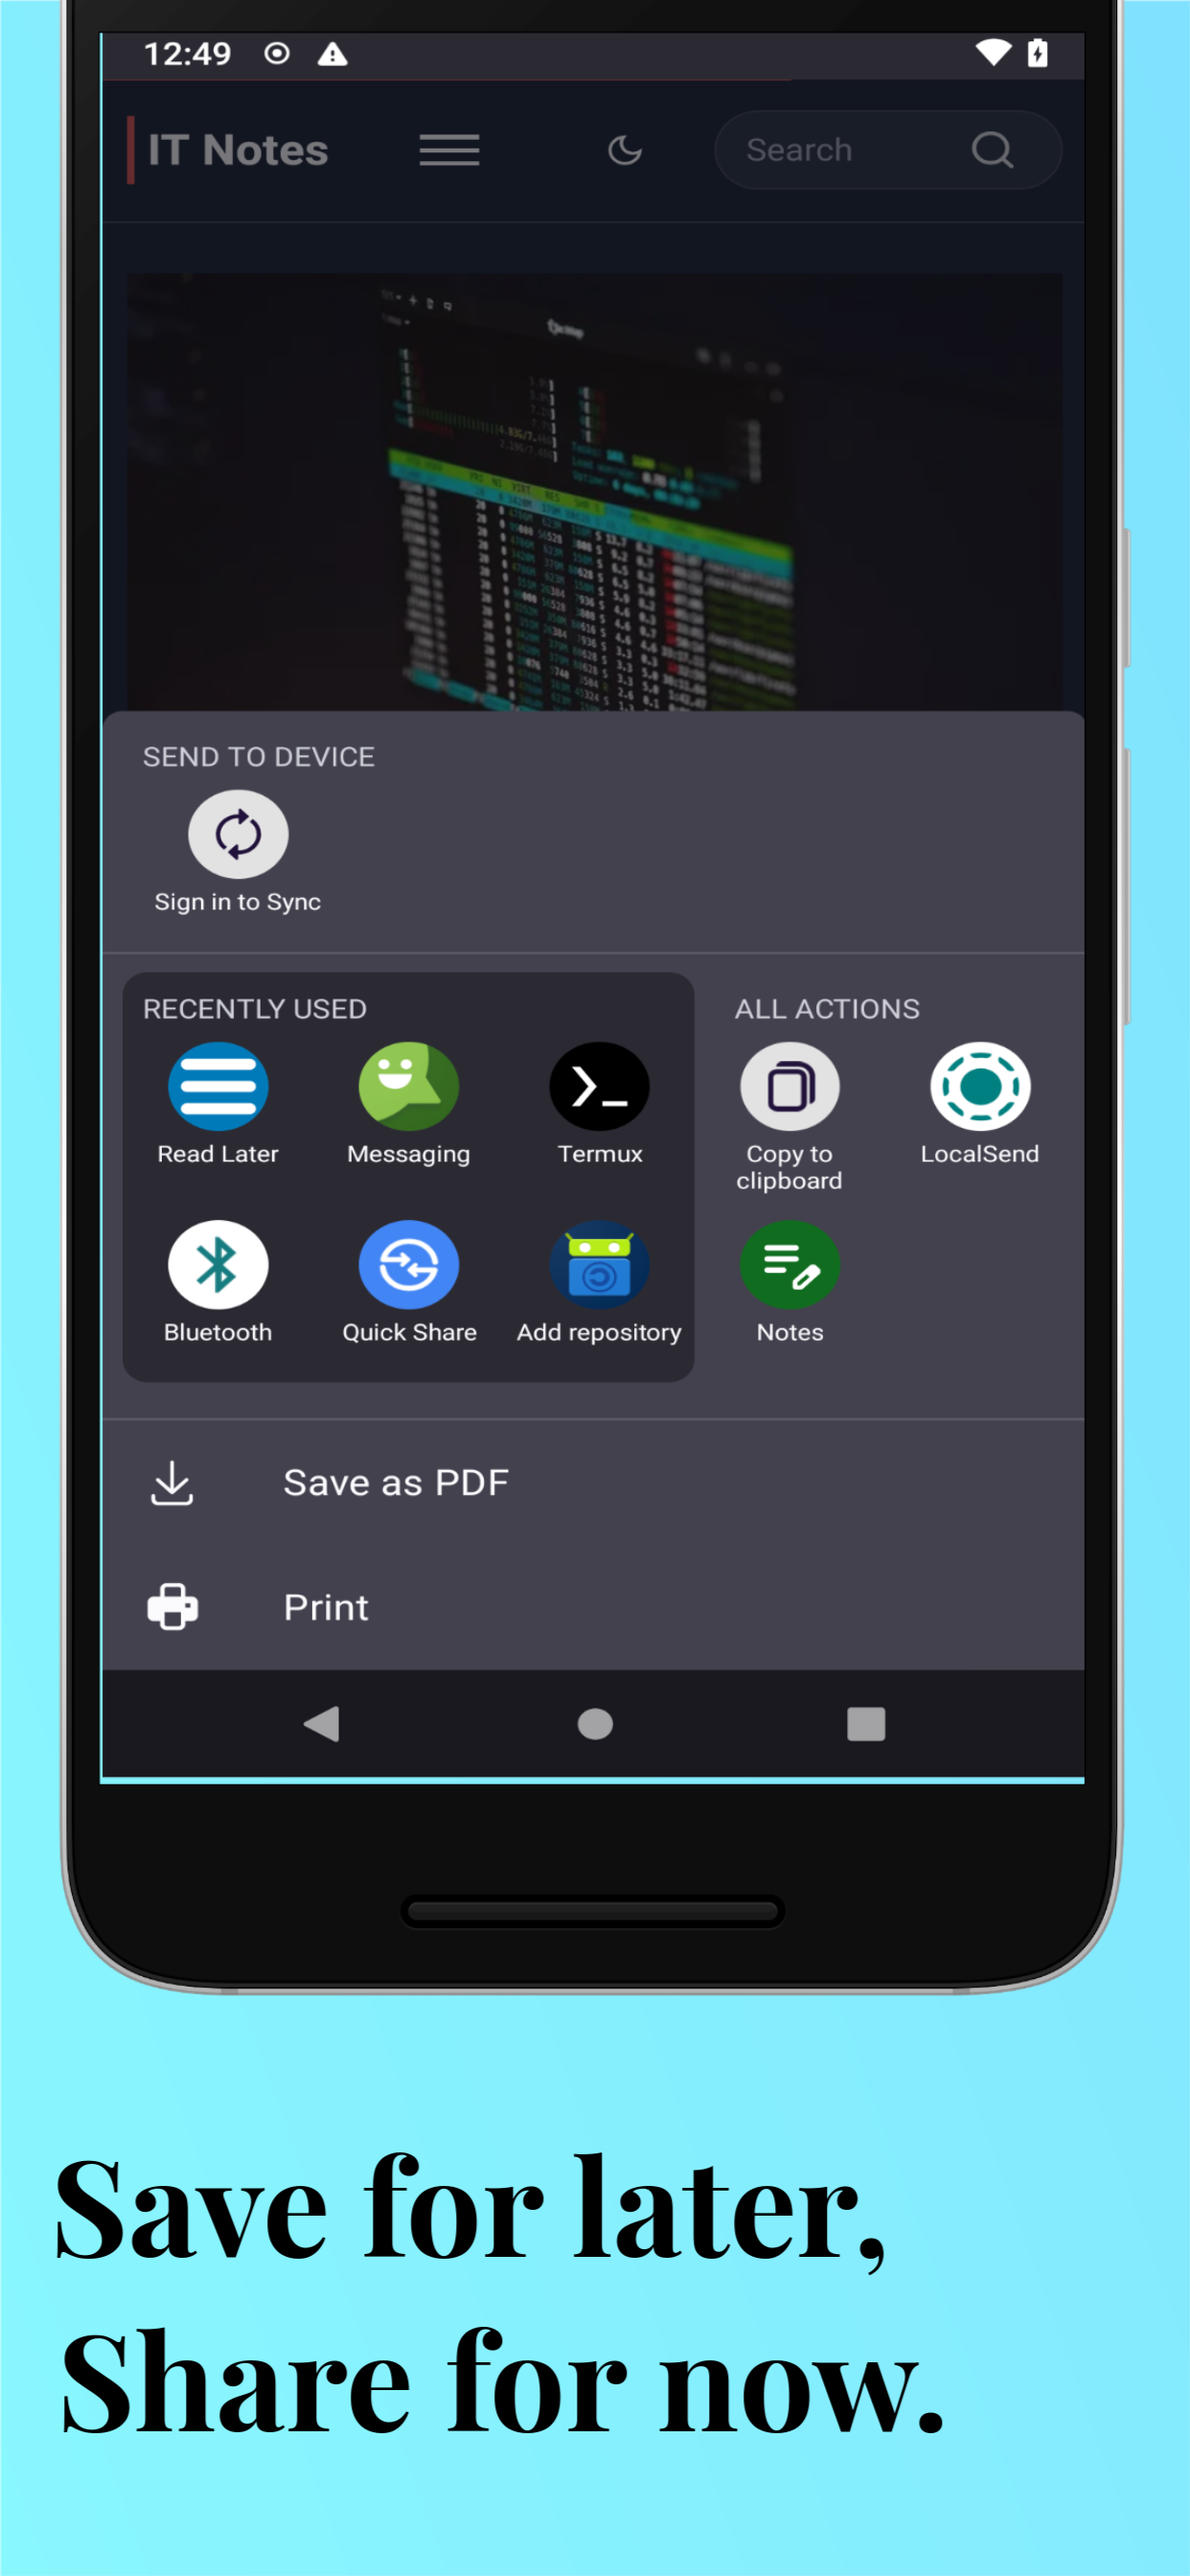
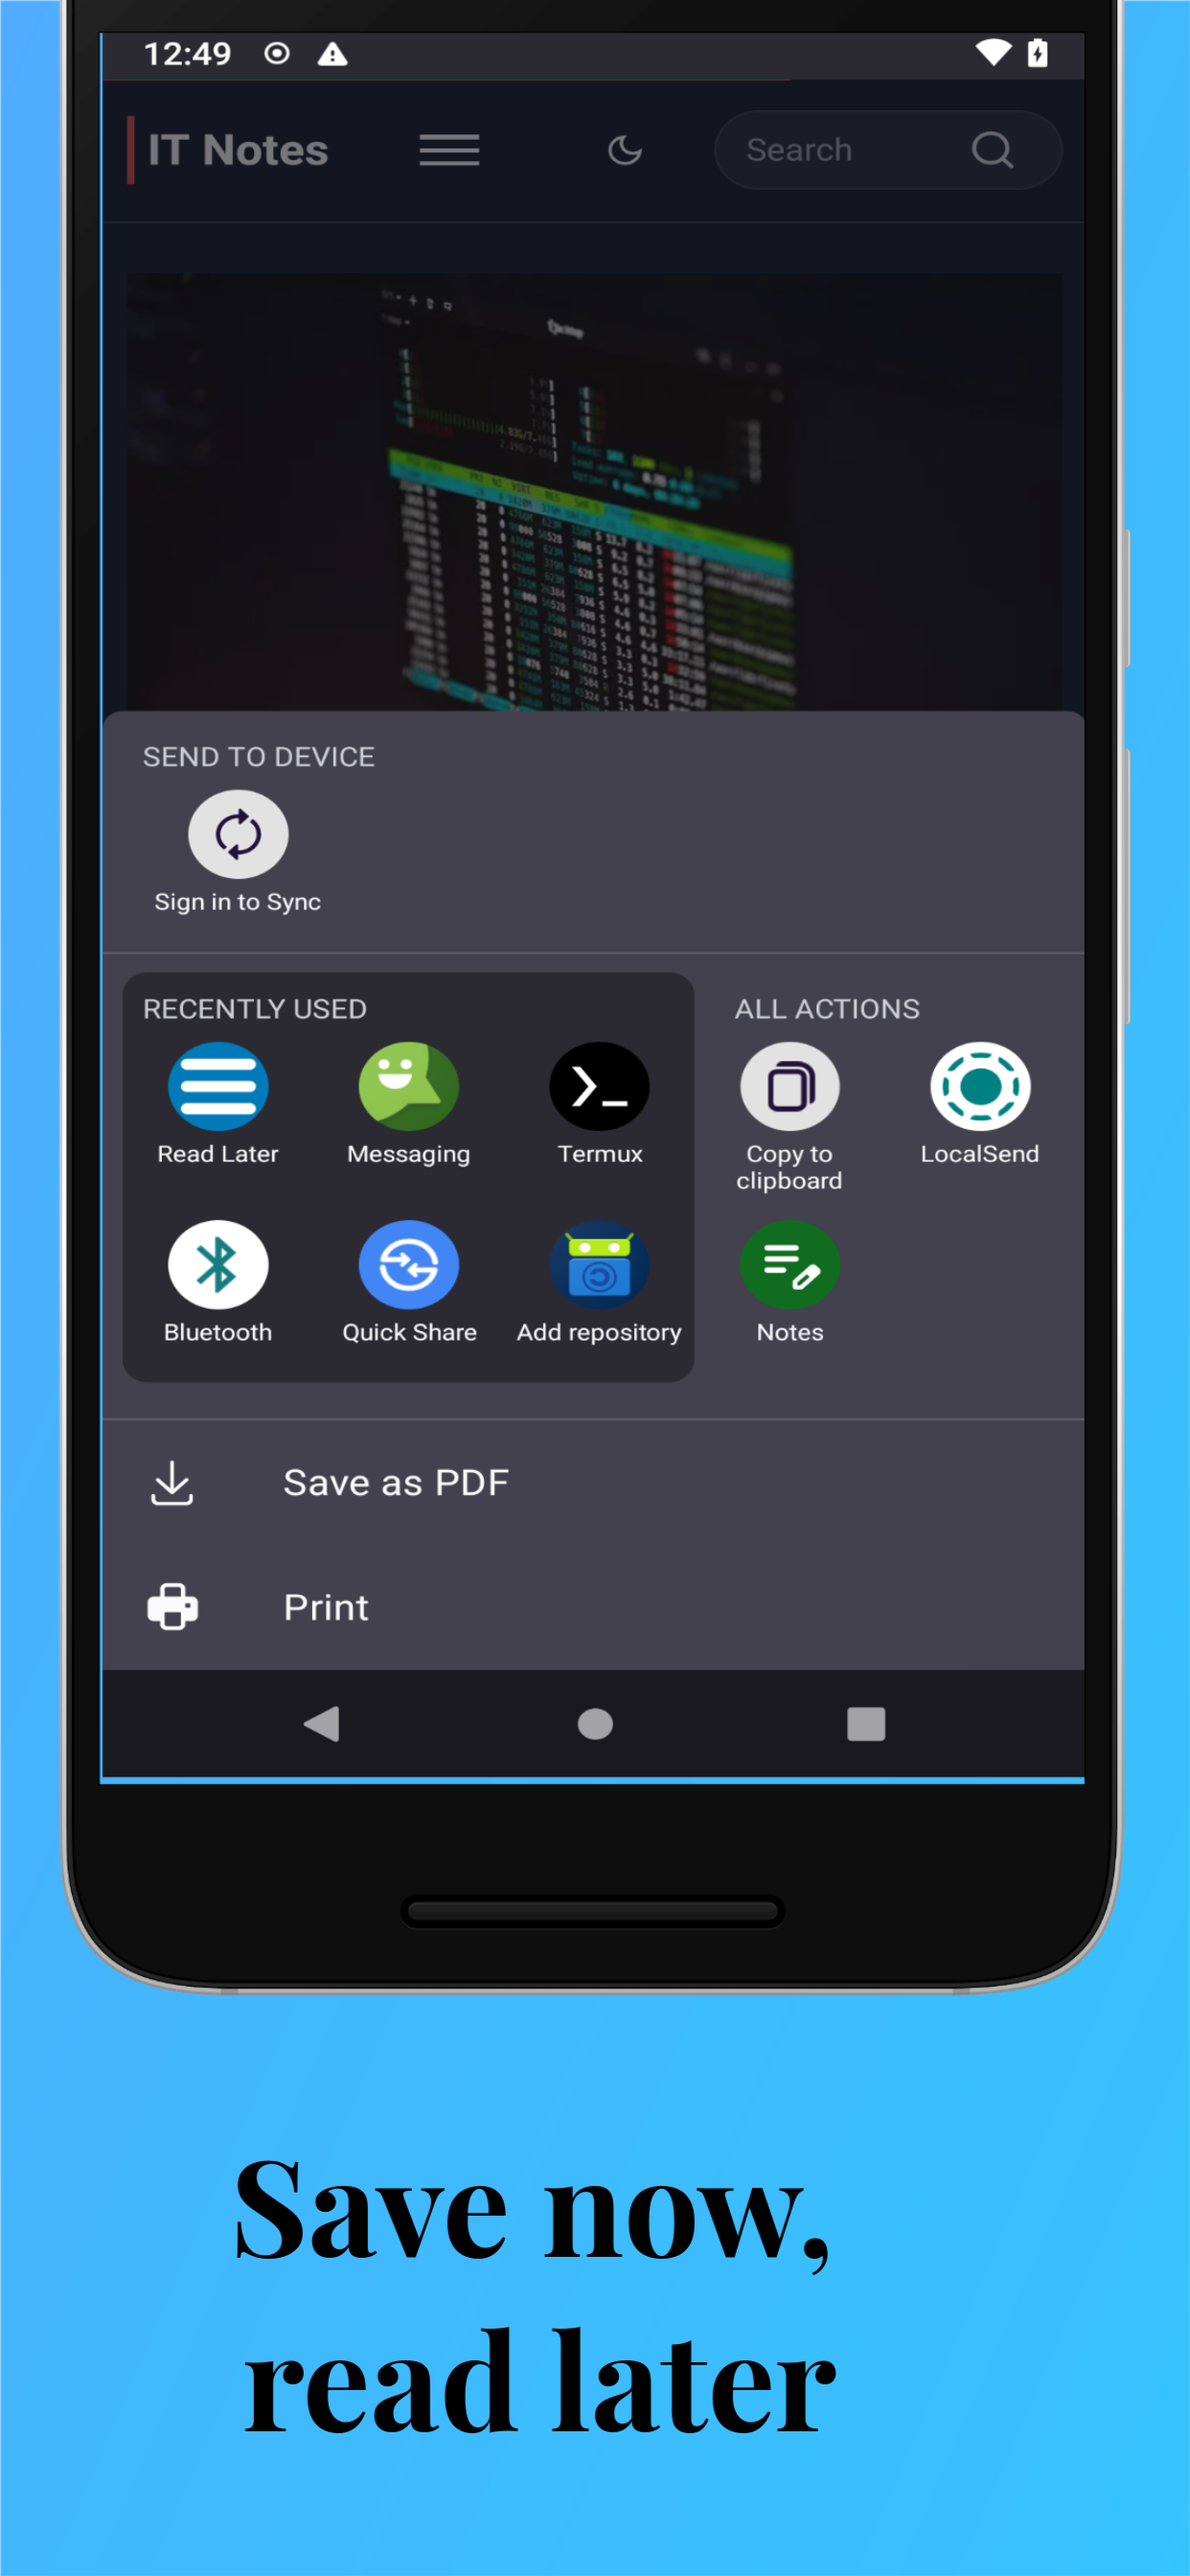
Add cover

diff --git a/README.md b/README.md
@@ -2,6 +2,12 @@
 
 Read it later app done using Tauri. Mainly for android.
 
+![cover](screenshots/read-later-cover.png)
+
+## Install
+
+Use APK from [releases.](https://github.com/sak96/read_later/releases)
+
 ## Setup
 
 ```bash
